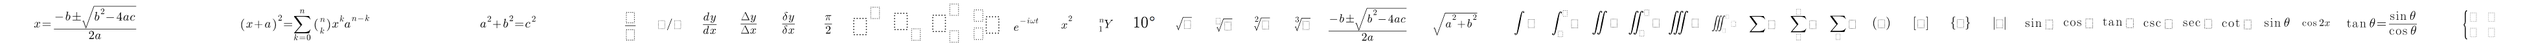
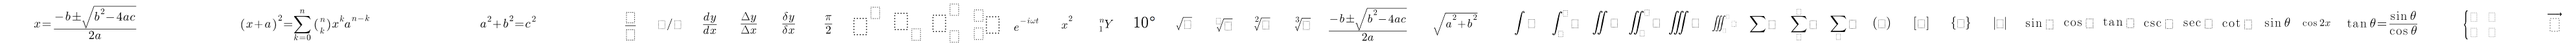
增加向量分类

diff --git a/src/ui/other-position.data.js b/src/ui/other-position.data.js
@@ -3,78 +3,5 @@
  */
 
 define(function () {
-
-    return {
-        "x=\\dfrac {-b\\pm\\sqrt {b^2-4ac}}{2a}": {"pos": {"x": 0, "y": 0}, "size": {"width": 310, "height": 73}},
-        "{\\left(x+a\\right)}^2=\\sum^n_{k=0}{\\left(^n_k\\right)x^ka^{n-k}}": {
-            "pos": {"x": 315, "y": 0},
-            "size": {"width": 310, "height": 73}
-        },
-        "a^2+b^2=c^2": {"pos": {"x": 630, "y": 0}, "size": {"width": 310, "height": 73}},
-        "\\dfrac \\placeholder\\placeholder": {"pos": {"x": 945, "y": 0}, "size": {"width": 56, "height": 75}},
-        "{\\placeholder/\\placeholder}": {"pos": {"x": 1006, "y": 0}, "size": {"width": 56, "height": 75}},
-        "\\dfrac {dy}{dx}": {"pos": {"x": 1067, "y": 0}, "size": {"width": 56, "height": 75}},
-        "\\dfrac {\\Delta y}{\\Delta x}": {"pos": {"x": 1128, "y": 0}, "size": {"width": 56, "height": 75}},
-        "\\dfrac {\\delta y}{\\delta x}": {"pos": {"x": 1189, "y": 0}, "size": {"width": 56, "height": 75}},
-        "\\dfrac \\pi 2": {"pos": {"x": 1250, "y": 0}, "size": {"width": 56, "height": 75}},
-        "\\placeholder^\\placeholder": {"pos": {"x": 1311, "y": 0}, "size": {"width": 56, "height": 75}},
-        "\\placeholder_\\placeholder": {"pos": {"x": 1372, "y": 0}, "size": {"width": 56, "height": 75}},
-        "\\placeholder^\\placeholder_\\placeholder": {"pos": {"x": 1433, "y": 0}, "size": {"width": 56, "height": 75}},
-        "{^\\placeholder_\\placeholder\\placeholder}": {
-            "pos": {"x": 1494, "y": 0},
-            "size": {"width": 56, "height": 75}
-        },
-        "e^{-i\\omega t}": {"pos": {"x": 1555, "y": 0}, "size": {"width": 56, "height": 75}},
-        "x^2": {"pos": {"x": 1616, "y": 0}, "size": {"width": 56, "height": 75}},
-        "{}^n_1Y": {"pos": {"x": 1677, "y": 0}, "size": {"width": 56, "height": 75}},
-        "10^\\circ": {"pos": {"x": 1738, "y": 0}, "size": {"width": 56, "height": 75}},
-        "\\sqrt \\placeholder": {"pos": {"x": 1799, "y": 0}, "size": {"width": 56, "height": 75}},
-        "\\sqrt [\\placeholder] \\placeholder": {"pos": {"x": 1860, "y": 0}, "size": {"width": 56, "height": 75}},
-        "\\sqrt [2] \\placeholder": {"pos": {"x": 1921, "y": 0}, "size": {"width": 56, "height": 75}},
-        "\\sqrt [3] \\placeholder": {"pos": {"x": 1982, "y": 0}, "size": {"width": 56, "height": 75}},
-        "\\dfrac {-b\\pm\\sqrt{b^2-4ac}}{2a}": {"pos": {"x": 2043, "y": 0}, "size": {"width": 137, "height": 75}},
-        "\\sqrt {a^2+b^2}": {"pos": {"x": 2185, "y": 0}, "size": {"width": 137, "height": 75}},
-        "\\int \\placeholder": {"pos": {"x": 2327, "y": 0}, "size": {"width": 56, "height": 75}},
-        "\\int^\\placeholder_\\placeholder\\placeholder": {
-            "pos": {"x": 2388, "y": 0},
-            "size": {"width": 56, "height": 75}
-        },
-        "\\iint\\placeholder": {"pos": {"x": 2449, "y": 0}, "size": {"width": 56, "height": 75}},
-        "\\iint^\\placeholder_\\placeholder\\placeholder": {
-            "pos": {"x": 2510, "y": 0},
-            "size": {"width": 56, "height": 75}
-        },
-        "\\iiint\\placeholder": {"pos": {"x": 2571, "y": 0}, "size": {"width": 56, "height": 75}},
-        "\\iiint^\\placeholder_\\placeholder\\placeholder": {
-            "pos": {"x": 2632, "y": 0},
-            "size": {"width": 56, "height": 75}
-        },
-        "\\sum\\placeholder": {"pos": {"x": 2693, "y": 0}, "size": {"width": 56, "height": 75}},
-        "\\sum^\\placeholder_\\placeholder\\placeholder": {
-            "pos": {"x": 2754, "y": 0},
-            "size": {"width": 56, "height": 75}
-        },
-        "\\sum_\\placeholder\\placeholder": {"pos": {"x": 2815, "y": 0}, "size": {"width": 56, "height": 75}},
-        "\\left(\\placeholder\\right)": {"pos": {"x": 2876, "y": 0}, "size": {"width": 56, "height": 75}},
-        "\\left[\\placeholder\\right]": {"pos": {"x": 2937, "y": 0}, "size": {"width": 56, "height": 75}},
-        "\\left\\{\\placeholder\\right\\}": {"pos": {"x": 2998, "y": 0}, "size": {"width": 56, "height": 75}},
-        "\\left|\\placeholder\\right|": {"pos": {"x": 3059, "y": 0}, "size": {"width": 56, "height": 75}},
-        "\\sin\\placeholder": {"pos": {"x": 3120, "y": 0}, "size": {"width": 56, "height": 75}},
-        "\\cos\\placeholder": {"pos": {"x": 3181, "y": 0}, "size": {"width": 56, "height": 75}},
-        "\\tan\\placeholder": {"pos": {"x": 3242, "y": 0}, "size": {"width": 56, "height": 75}},
-        "\\csc\\placeholder": {"pos": {"x": 3303, "y": 0}, "size": {"width": 56, "height": 75}},
-        "\\sec\\placeholder": {"pos": {"x": 3364, "y": 0}, "size": {"width": 56, "height": 75}},
-        "\\cot\\placeholder": {"pos": {"x": 3425, "y": 0}, "size": {"width": 56, "height": 75}},
-        "\\sin\\theta": {"pos": {"x": 3486, "y": 0}, "size": {"width": 56, "height": 75}},
-        "\\cos{2x}": {"pos": {"x": 3547, "y": 0}, "size": {"width": 56, "height": 75}},
-        "\\tan\\theta=\\dfrac {\\sin\\theta}{\\cos\\theta}": {
-            "pos": {"x": 3608, "y": 0},
-            "size": {"width": 137, "height": 75}
-        },
-        "\\left\\{\\begin{array}{ll}\\placeholder & \\placeholder \\\\ \\placeholder & \\placeholder\\end{array}\\right.": {
-            "pos": {"x": 3750, "y": 0},
-            "size": {"width": 160, "height": 75}
-        }
-    };
-
+    return {"x=\\dfrac {-b\\pm\\sqrt {b^2-4ac}}{2a}":{"pos":{"x":0,"y":0},"size":{"width":310,"height":73}},"{\\left(x+a\\right)}^2=\\sum^n_{k=0}{\\left(^n_k\\right)x^ka^{n-k}}":{"pos":{"x":315,"y":0},"size":{"width":310,"height":73}},"a^2+b^2=c^2":{"pos":{"x":630,"y":0},"size":{"width":310,"height":73}},"\\dfrac \\placeholder\\placeholder":{"pos":{"x":945,"y":0},"size":{"width":56,"height":75}},"{\\placeholder/\\placeholder}":{"pos":{"x":1006,"y":0},"size":{"width":56,"height":75}},"\\dfrac {dy}{dx}":{"pos":{"x":1067,"y":0},"size":{"width":56,"height":75}},"\\dfrac {\\Delta y}{\\Delta x}":{"pos":{"x":1128,"y":0},"size":{"width":56,"height":75}},"\\dfrac {\\delta y}{\\delta x}":{"pos":{"x":1189,"y":0},"size":{"width":56,"height":75}},"\\dfrac \\pi 2":{"pos":{"x":1250,"y":0},"size":{"width":56,"height":75}},"\\placeholder^\\placeholder":{"pos":{"x":1311,"y":0},"size":{"width":56,"height":75}},"\\placeholder_\\placeholder":{"pos":{"x":1372,"y":0},"size":{"width":56,"height":75}},"\\placeholder^\\placeholder_\\placeholder":{"pos":{"x":1433,"y":0},"size":{"width":56,"height":75}},"{^\\placeholder_\\placeholder\\placeholder}":{"pos":{"x":1494,"y":0},"size":{"width":56,"height":75}},"e^{-i\\omega t}":{"pos":{"x":1555,"y":0},"size":{"width":56,"height":75}},"x^2":{"pos":{"x":1616,"y":0},"size":{"width":56,"height":75}},"{}^n_1Y":{"pos":{"x":1677,"y":0},"size":{"width":56,"height":75}},"10^\\circ":{"pos":{"x":1738,"y":0},"size":{"width":56,"height":75}},"\\sqrt \\placeholder":{"pos":{"x":1799,"y":0},"size":{"width":56,"height":75}},"\\sqrt [\\placeholder] \\placeholder":{"pos":{"x":1860,"y":0},"size":{"width":56,"height":75}},"\\sqrt [2] \\placeholder":{"pos":{"x":1921,"y":0},"size":{"width":56,"height":75}},"\\sqrt [3] \\placeholder":{"pos":{"x":1982,"y":0},"size":{"width":56,"height":75}},"\\dfrac {-b\\pm\\sqrt{b^2-4ac}}{2a}":{"pos":{"x":2043,"y":0},"size":{"width":137,"height":75}},"\\sqrt {a^2+b^2}":{"pos":{"x":2185,"y":0},"size":{"width":137,"height":75}},"\\int \\placeholder":{"pos":{"x":2327,"y":0},"size":{"width":56,"height":75}},"\\int^\\placeholder_\\placeholder\\placeholder":{"pos":{"x":2388,"y":0},"size":{"width":56,"height":75}},"\\iint\\placeholder":{"pos":{"x":2449,"y":0},"size":{"width":56,"height":75}},"\\iint^\\placeholder_\\placeholder\\placeholder":{"pos":{"x":2510,"y":0},"size":{"width":56,"height":75}},"\\iiint\\placeholder":{"pos":{"x":2571,"y":0},"size":{"width":56,"height":75}},"\\iiint^\\placeholder_\\placeholder\\placeholder":{"pos":{"x":2632,"y":0},"size":{"width":56,"height":75}},"\\sum\\placeholder":{"pos":{"x":2693,"y":0},"size":{"width":56,"height":75}},"\\sum^\\placeholder_\\placeholder\\placeholder":{"pos":{"x":2754,"y":0},"size":{"width":56,"height":75}},"\\sum_\\placeholder\\placeholder":{"pos":{"x":2815,"y":0},"size":{"width":56,"height":75}},"\\left(\\placeholder\\right)":{"pos":{"x":2876,"y":0},"size":{"width":56,"height":75}},"\\left[\\placeholder\\right]":{"pos":{"x":2937,"y":0},"size":{"width":56,"height":75}},"\\left\\{\\placeholder\\right\\}":{"pos":{"x":2998,"y":0},"size":{"width":56,"height":75}},"\\left|\\placeholder\\right|":{"pos":{"x":3059,"y":0},"size":{"width":56,"height":75}},"\\sin\\placeholder":{"pos":{"x":3120,"y":0},"size":{"width":56,"height":75}},"\\cos\\placeholder":{"pos":{"x":3181,"y":0},"size":{"width":56,"height":75}},"\\tan\\placeholder":{"pos":{"x":3242,"y":0},"size":{"width":56,"height":75}},"\\csc\\placeholder":{"pos":{"x":3303,"y":0},"size":{"width":56,"height":75}},"\\sec\\placeholder":{"pos":{"x":3364,"y":0},"size":{"width":56,"height":75}},"\\cot\\placeholder":{"pos":{"x":3425,"y":0},"size":{"width":56,"height":75}},"\\sin\\theta":{"pos":{"x":3486,"y":0},"size":{"width":56,"height":75}},"\\cos{2x}":{"pos":{"x":3547,"y":0},"size":{"width":56,"height":75}},"\\tan\\theta=\\dfrac {\\sin\\theta}{\\cos\\theta}":{"pos":{"x":3608,"y":0},"size":{"width":137,"height":75}},"\\left\\{\\begin{array}{ll}\\placeholder & \\placeholder \\\\ \\placeholder & \\placeholder\\end{array}\\right.":{"pos":{"x":3750,"y":0},"size":{"width":160,"height":75}},"\\overrightarrow{\\placeholder}":{"pos":{"x":3915,"y":0},"size":{"width":56,"height":75}}};
 });

diff --git a/src/ui/toolbar-ele-list.js b/src/ui/toolbar-ele-list.js
@@ -352,13 +352,6 @@ define(function (require) {
                                 val: "\\left|\\placeholder\\right|"
                             }
                         }]
-                    }, {
-                        title: "方程组",
-                        content: [{
-                            item: {
-                                val: "\\left\\{\\begin{array}{ll}\\placeholder & \\placeholder \\\\ \\placeholder & \\placeholder\\end{array}\\right."
-                            }
-                        }]
                     }]
                 }]
             }
@@ -418,6 +411,39 @@ define(function (require) {
                         }, {
                             item: {
                                 val: "\\tan\\theta=\\dfrac {\\sin\\theta}{\\cos\\theta}"
+                            }
+                        }]
+                    }]
+                }]
+            }
+        }
+    }, {
+        type: UI_ELE_TYPE.DRAPDOWN_BOX,
+        options: {
+            button: {
+                label: "向量<br/>方程组",
+                icon: {
+                    src: "assets/images/toolbar/btn.png",
+                    x: 383,
+                    y: 0
+                }
+            },
+            box: {
+                width: 340,
+                group: [{
+                    title: "向量",
+                    items: [{
+                        title: "向量",
+                        content: [{
+                            item: {
+                                val: "\\overrightarrow{\\placeholder}"
+                            }
+                        }]
+                    }, {
+                        title: "方程组",
+                        content: [{
+                            item: {
+                                val: "\\left\\{\\begin{array}{ll}\\placeholder & \\placeholder \\\\ \\placeholder & \\placeholder\\end{array}\\right."
                             }
                         }]
                     }]

diff --git a/build/other/data.js b/build/other/data.js
@@ -143,4 +143,7 @@ var icons = [{
 }, {
     value: "\\left\\{\\begin{array}{ll}\\placeholder & \\placeholder \\\\ \\placeholder & \\placeholder\\end{array}\\right.",
     file: TOOLBAR_BASE + "brackets/5.png"
+}, {
+    value: "\\overrightarrow{\\placeholder}",
+    file: TOOLBAR_BASE + "vector/1.png"
 }];
